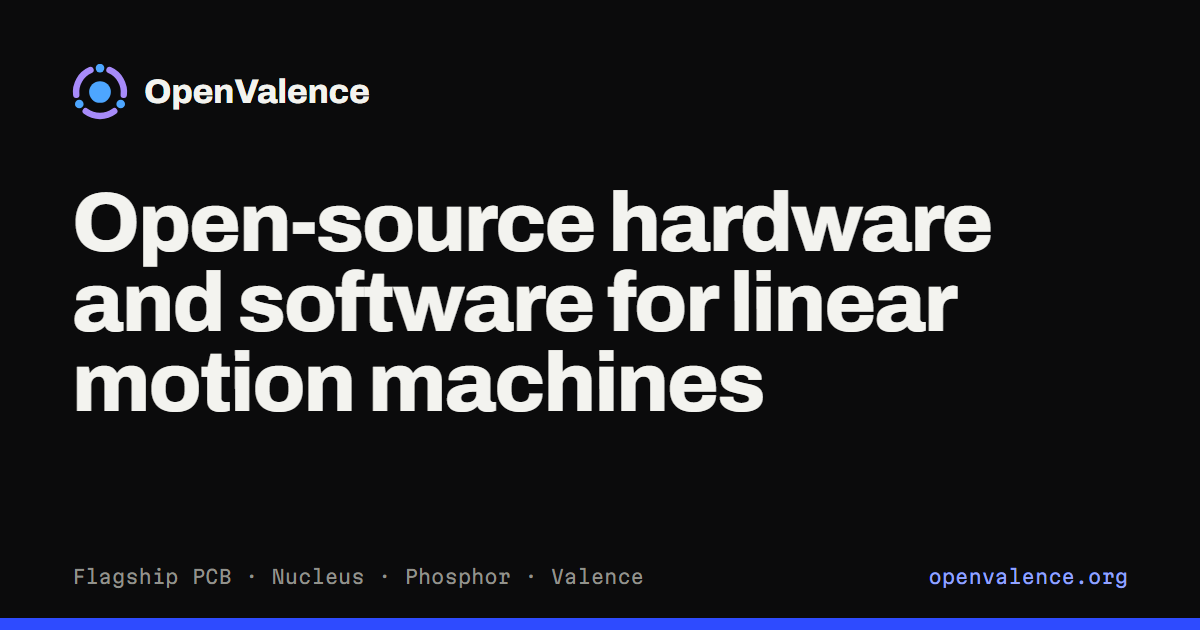
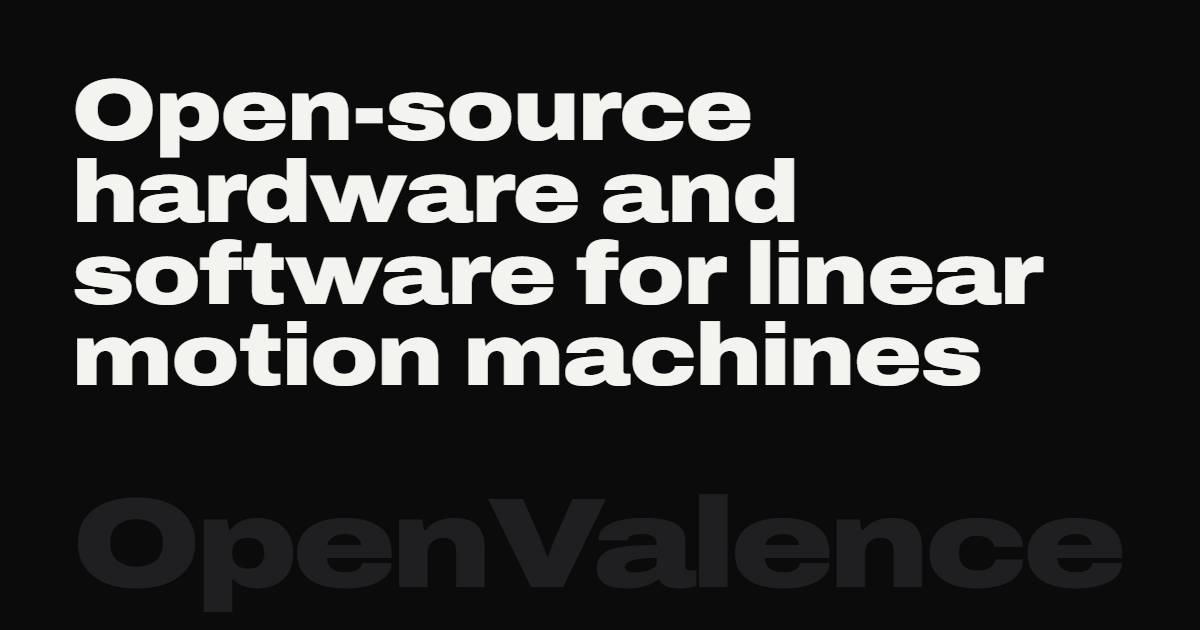
Link preview card: the homepage h1 and the footer's big grey wordmark, nothing else

diff --git a/tools/og.html b/tools/og.html
@@ -2,21 +2,16 @@
 <!-- The 1200x630 link-preview card (images/og.png). Render: screenshot this page at 1200x630, DPR 1, after fonts load. -->
 <html lang="en"><head><meta charset="utf-8"><title>og</title>
 <style>
-@font-face { font-family: 'Archivo'; src: url('../fonts/Archivo.woff2') format('woff2'); font-weight: 100 900; }
-@font-face { font-family: 'Martian Mono'; src: url('../fonts/MartianMono.woff2') format('woff2'); }
+@font-face { font-family: 'Archivo'; src: url('../fonts/Archivo.woff2') format('woff2'); font-weight: 700 900; font-stretch: 100% 125%; }
 html, body { margin: 0; width: 1200px; height: 630px; overflow: hidden; background: #0B0B0C; }
-.card { box-sizing: border-box; width: 1200px; height: 630px; padding: 64px 72px 0; display: flex; flex-direction: column; position: relative; }
-.brand { display: flex; align-items: center; gap: 16px; font: 800 34px/1 'Archivo', 'Arial Black', sans-serif; color: #F3F3EF; letter-spacing: -.01em; }
-.brand img { width: 56px; height: 56px; }
-h1 { font: 800 84px/.95 'Archivo', 'Arial Black', sans-serif; color: #F3F3EF; letter-spacing: -.025em; margin: 64px 0 0; max-width: 1020px; }
-.foot { margin-top: auto; display: flex; justify-content: space-between; align-items: baseline; padding-bottom: 40px;
-  font: 400 19px/1.3 'Martian Mono', ui-monospace, monospace; color: #92928C; }
-.foot b { font-weight: 400; color: #92A3FF; }
-.band { position: absolute; left: 0; right: 0; bottom: 0; height: 12px; background: #2E4BFF; }
+.card { box-sizing: border-box; width: 1200px; height: 630px; padding: 70px 72px 0; position: relative; overflow: hidden; }
+/* the homepage h1 */
+h1 { font: 900 88px/.93 'Archivo', 'Arial Black', sans-serif; font-stretch: 118%; letter-spacing: -.015em; color: #F3F3EF; margin: 0; max-width: 16ch; text-wrap: balance; }
+/* the footer wordmark: spans the content width (8.25 font sizes), the site's --bg-3 */
+.word { position: absolute; left: 72px; right: 72px; bottom: 34px; font: 900 128px/.8 'Archivo', 'Arial Black', sans-serif; font-size: calc(1056px / 8.25); font-stretch: 125%; letter-spacing: -.04em; color: #1F1F22; white-space: nowrap; }
 </style></head>
 <body><div class="card">
-  <div class="brand"><img src="../mark.svg" alt="">OpenValence</div>
   <h1>Open-source hardware and software for linear motion machines</h1>
-  <div class="foot"><span>Flagship PCB · Nucleus · Phosphor · Valence</span><b>openvalence.org</b></div>
-  <div class="band"></div>
-</div></body></html>
+  <div class="word">OpenValence</div>
+</div></body>
+</html>

diff --git a/tools/chrome.html b/tools/chrome.html
@@ -61,7 +61,7 @@ The shared blocks every page carries. Edit here, then run: python tools/chrome.p
 <meta property="og:image" content="https://openvalence.org/images/og.png?v=2">
 <meta property="og:image:width" content="1200">
 <meta property="og:image:height" content="630">
-<meta property="og:image:alt" content="The OpenValence mark and name over the line Open-source hardware and software for linear motion machines.">
+<meta property="og:image:alt" content="Open-source hardware and software for linear motion machines, above a large OpenValence wordmark.">
 <meta name="twitter:card" content="summary_large_image">
 <!-- /chrome:head -->
 

diff --git a/components/index.html b/components/index.html
@@ -73,7 +73,7 @@
 <meta property="og:image" content="https://openvalence.org/images/og.png?v=2">
 <meta property="og:image:width" content="1200">
 <meta property="og:image:height" content="630">
-<meta property="og:image:alt" content="The OpenValence mark and name over the line Open-source hardware and software for linear motion machines.">
+<meta property="og:image:alt" content="Open-source hardware and software for linear motion machines, above a large OpenValence wordmark.">
 <meta name="twitter:card" content="summary_large_image">
 <!-- /chrome:head -->
 <script type="application/ld+json">

diff --git a/downloads/index.html b/downloads/index.html
@@ -73,7 +73,7 @@
 <meta property="og:image" content="https://openvalence.org/images/og.png?v=2">
 <meta property="og:image:width" content="1200">
 <meta property="og:image:height" content="630">
-<meta property="og:image:alt" content="The OpenValence mark and name over the line Open-source hardware and software for linear motion machines.">
+<meta property="og:image:alt" content="Open-source hardware and software for linear motion machines, above a large OpenValence wordmark.">
 <meta name="twitter:card" content="summary_large_image">
 <!-- /chrome:head -->
 <script type="application/ld+json">

diff --git a/index.html b/index.html
@@ -73,7 +73,7 @@
 <meta property="og:image" content="https://openvalence.org/images/og.png?v=2">
 <meta property="og:image:width" content="1200">
 <meta property="og:image:height" content="630">
-<meta property="og:image:alt" content="The OpenValence mark and name over the line Open-source hardware and software for linear motion machines.">
+<meta property="og:image:alt" content="Open-source hardware and software for linear motion machines, above a large OpenValence wordmark.">
 <meta name="twitter:card" content="summary_large_image">
 <!-- /chrome:head -->
 <script type="application/ld+json">

diff --git a/phosphor/index.html b/phosphor/index.html
@@ -73,7 +73,7 @@
 <meta property="og:image" content="https://openvalence.org/images/og.png?v=2">
 <meta property="og:image:width" content="1200">
 <meta property="og:image:height" content="630">
-<meta property="og:image:alt" content="The OpenValence mark and name over the line Open-source hardware and software for linear motion machines.">
+<meta property="og:image:alt" content="Open-source hardware and software for linear motion machines, above a large OpenValence wordmark.">
 <meta name="twitter:card" content="summary_large_image">
 <!-- /chrome:head -->
 <script type="application/ld+json">

diff --git a/404.html b/404.html
@@ -67,7 +67,7 @@
 <meta property="og:image" content="https://openvalence.org/images/og.png?v=2">
 <meta property="og:image:width" content="1200">
 <meta property="og:image:height" content="630">
-<meta property="og:image:alt" content="The OpenValence mark and name over the line Open-source hardware and software for linear motion machines.">
+<meta property="og:image:alt" content="Open-source hardware and software for linear motion machines, above a large OpenValence wordmark.">
 <meta name="twitter:card" content="summary_large_image">
 <!-- /chrome:head -->
 </head>

diff --git a/demos/index.html b/demos/index.html
@@ -73,7 +73,7 @@
 <meta property="og:image" content="https://openvalence.org/images/og.png?v=2">
 <meta property="og:image:width" content="1200">
 <meta property="og:image:height" content="630">
-<meta property="og:image:alt" content="The OpenValence mark and name over the line Open-source hardware and software for linear motion machines.">
+<meta property="og:image:alt" content="Open-source hardware and software for linear motion machines, above a large OpenValence wordmark.">
 <meta name="twitter:card" content="summary_large_image">
 <!-- /chrome:head -->
 </head>

diff --git a/diagrams/index.html b/diagrams/index.html
@@ -73,7 +73,7 @@
 <meta property="og:image" content="https://openvalence.org/images/og.png?v=2">
 <meta property="og:image:width" content="1200">
 <meta property="og:image:height" content="630">
-<meta property="og:image:alt" content="The OpenValence mark and name over the line Open-source hardware and software for linear motion machines.">
+<meta property="og:image:alt" content="Open-source hardware and software for linear motion machines, above a large OpenValence wordmark.">
 <meta name="twitter:card" content="summary_large_image">
 <!-- /chrome:head -->
 </head>

diff --git a/hardware/index.html b/hardware/index.html
@@ -73,7 +73,7 @@
 <meta property="og:image" content="https://openvalence.org/images/og.png?v=2">
 <meta property="og:image:width" content="1200">
 <meta property="og:image:height" content="630">
-<meta property="og:image:alt" content="The OpenValence mark and name over the line Open-source hardware and software for linear motion machines.">
+<meta property="og:image:alt" content="Open-source hardware and software for linear motion machines, above a large OpenValence wordmark.">
 <meta name="twitter:card" content="summary_large_image">
 <!-- /chrome:head -->
 </head>

diff --git a/isotope/index.html b/isotope/index.html
@@ -73,7 +73,7 @@
 <meta property="og:image" content="https://openvalence.org/images/og.png?v=2">
 <meta property="og:image:width" content="1200">
 <meta property="og:image:height" content="630">
-<meta property="og:image:alt" content="The OpenValence mark and name over the line Open-source hardware and software for linear motion machines.">
+<meta property="og:image:alt" content="Open-source hardware and software for linear motion machines, above a large OpenValence wordmark.">
 <meta name="twitter:card" content="summary_large_image">
 <!-- /chrome:head -->
 </head>

diff --git a/kinetic/index.html b/kinetic/index.html
@@ -73,7 +73,7 @@
 <meta property="og:image" content="https://openvalence.org/images/og.png?v=2">
 <meta property="og:image:width" content="1200">
 <meta property="og:image:height" content="630">
-<meta property="og:image:alt" content="The OpenValence mark and name over the line Open-source hardware and software for linear motion machines.">
+<meta property="og:image:alt" content="Open-source hardware and software for linear motion machines, above a large OpenValence wordmark.">
 <meta name="twitter:card" content="summary_large_image">
 <!-- /chrome:head -->
 </head>
